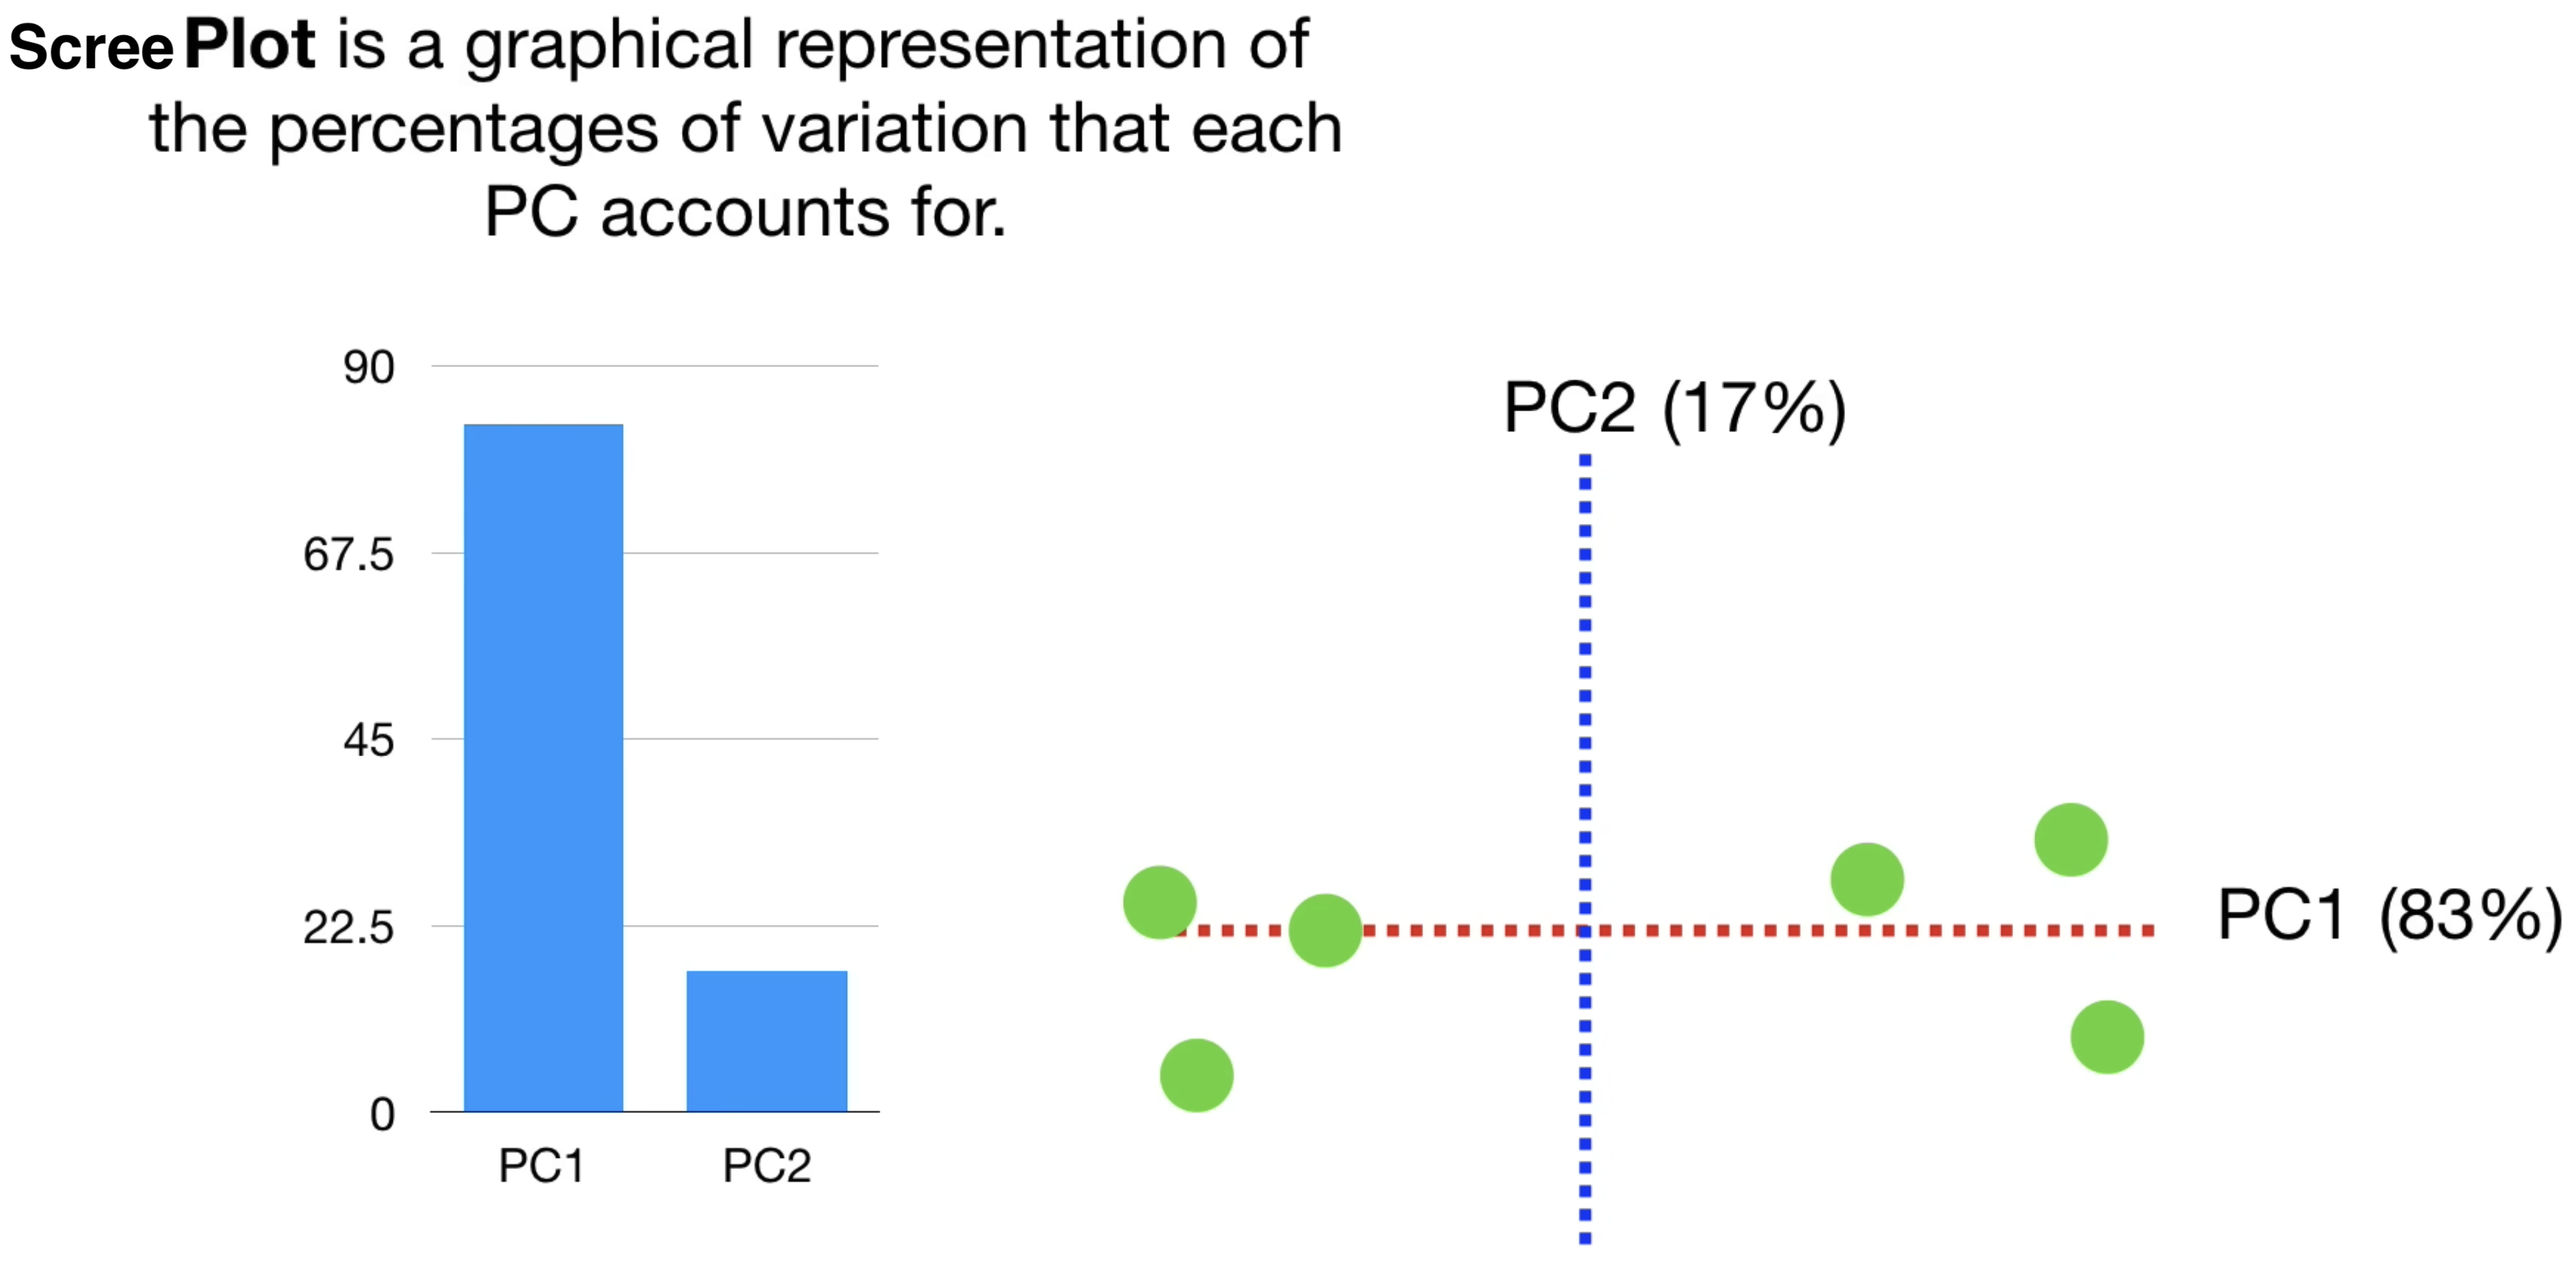
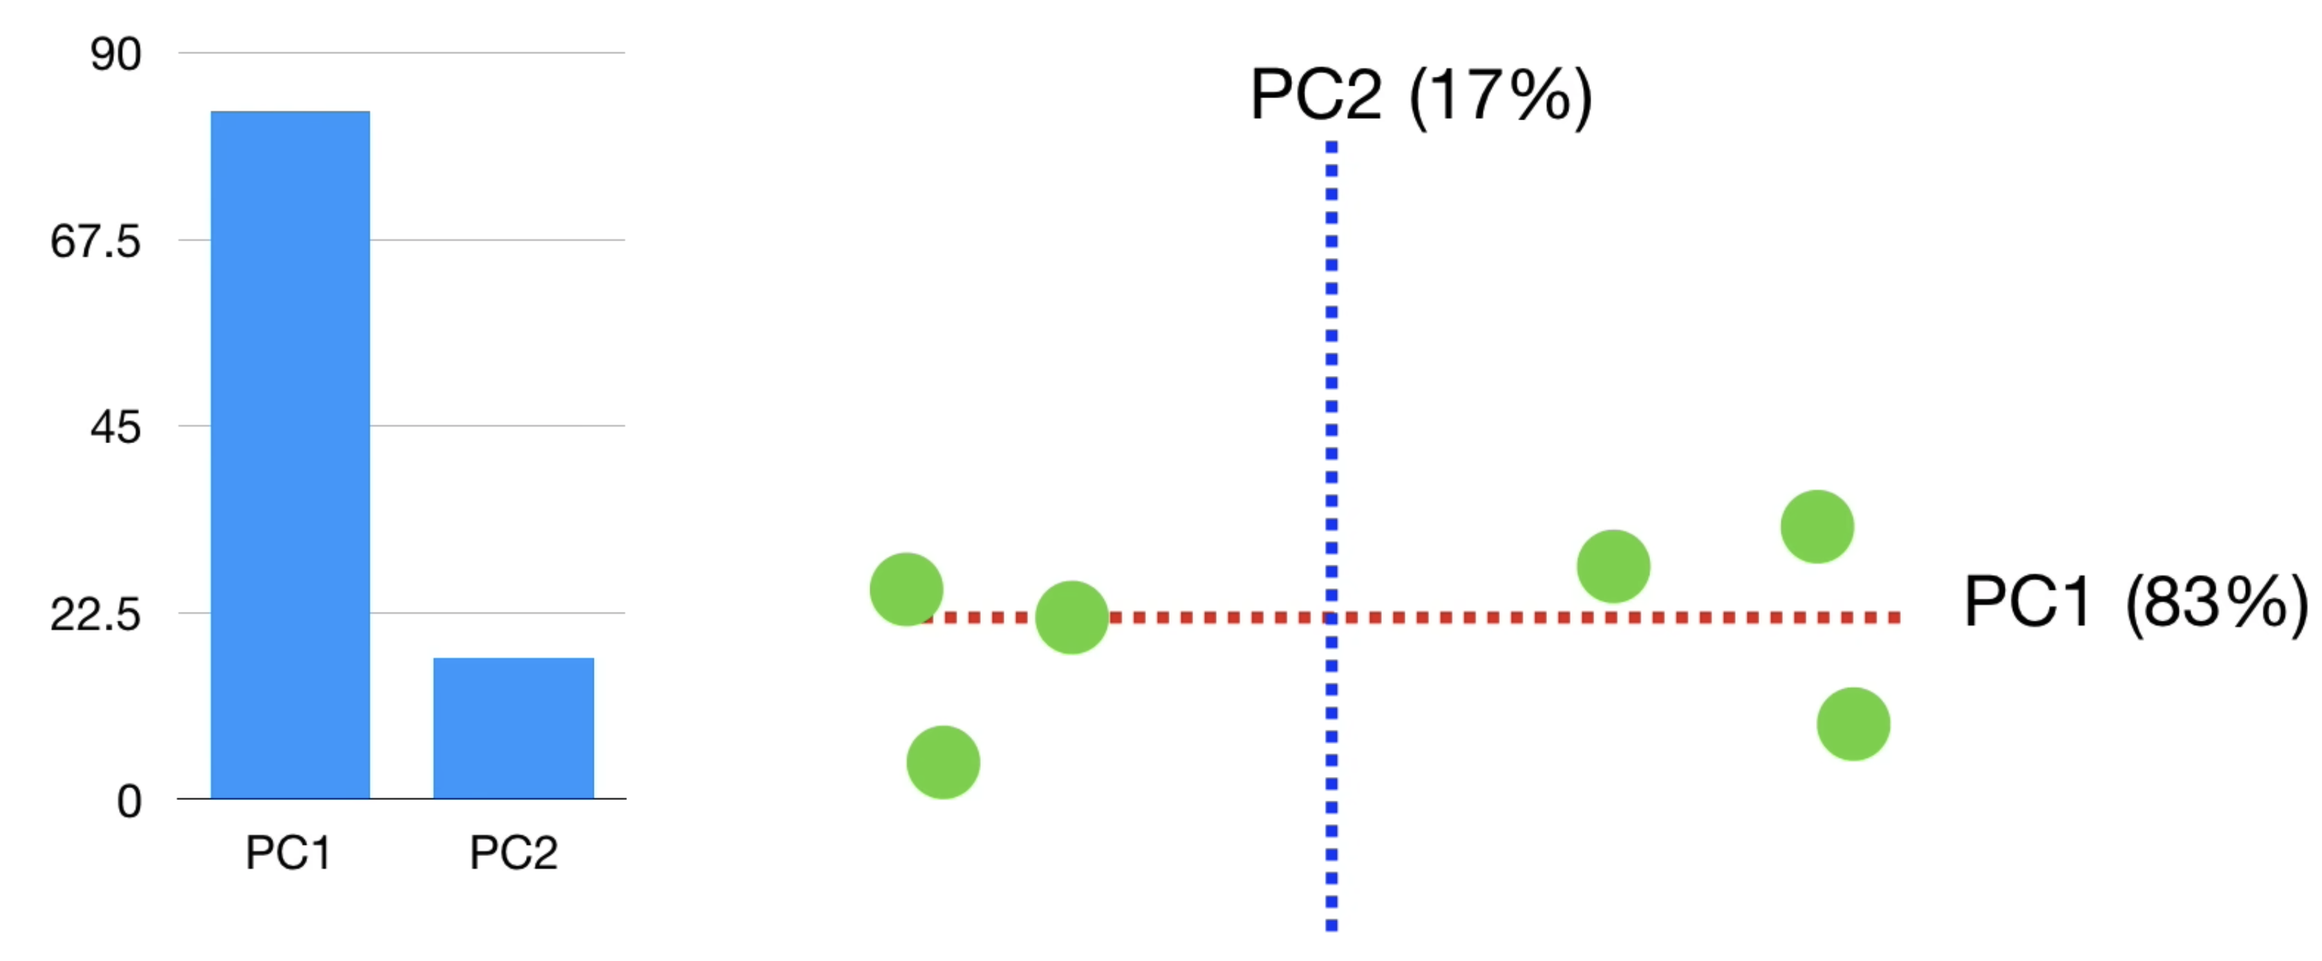
reorganisation des img

diff --git a/clustering/ACP_theorie.md b/clustering/ACP_theorie.md
@@ -7,10 +7,8 @@ soustrait la moyenne à chaque valeur, ce qui revient à recentrer les données 
 Recherche de la direction (droite ou vecteur) qui s’ajuste le mieux aux données pour y projeter les points.
 <img src="../img/machine_learning/acp/3_search_best_line.png" width="300"><br>
 Étant donné que **a** (distance de la projection à l'origine) est fixe, on peut :
-
-soit minimiser **b** (la distance entre les points et leur projection sur la droite),
-
-soit maximiser **c** (la variance projetée sur la droite)
+- soit **minimiser b** la distance entre les points et leur projection sur la droite<br>
+- soit **maximiser c** la distance entre l'origine et la projecion du point sur la droite (variance projetée sur la droite)
 <p align="left">
 <img src="../img/machine_learning/acp/5_minimize_b.png" width="300"style="vertical-align: top;">
 <img src="../img/machine_learning/acp/6_maximize_c.png" width="300"style="vertical-align: top;">
@@ -20,8 +18,8 @@ La ligne qui s'ajuste le mieux avec les données est celle qui maximise le total
 La direction optimale est celle qui maximise la variance projetée (ou, équivalemment, qui minimise la somme des carrés des distances entre les points et leur projection).<br>
 <img src="../img/machine_learning/acp/7_best_line_math.png" width="300"><br>
 La direction (ou droite) qui capte le plus de variance possible dans les données est la **première composante principale** (PC1)
-Sa pente permet de calculer... 
 <img src="../img/machine_learning/acp/8_best_line_slope.png" width="300"><br>
+Sa pente permet de calculer... 
 <p align="left">
 <img src="../img/machine_learning/acp/9_slope_ratio.png" width="300" style="vertical-align: top;">
 <img src="../img/machine_learning/acp/10_slope_math.png" width="300" style="vertical-align: top;">
@@ -36,15 +34,22 @@ Idem avec la pente de PC2
 <img src="../img/machine_learning/acp/15_PC2.png" width="300"style="vertical-align: top;">
 <img src="../img/machine_learning/acp/16_PC2_scores.png" width="300"style="vertical-align: top;">
 </p>
+On pivote l'ensemble pour avoir PC1 à l'horizontal<br>
+<img src="../img/machine_learning/acp/18_PC_graph.png" width="300"><br>
 
 <img src="../img/machine_learning/acp/17_PC1_horizontal.png" width="300"><br>
-<img src="../img/machine_learning/acp/18_PC_graph.png" width="300"><br>
 
 Pourcentage de variance expliquée par PC1 :
 Il s’agit du rapport entre la variance projetée sur PC1 et la variance totale des données.
 
 Cela permet de mesurer l’importance de cette composante dans la représentation des données.
-<img src="../img/machine_learning/acp/19_PC_graph_math.png" width="300"><br>
-Variation for PC1 = 15<br>
-Variation for PC1 = 3
-<img src="../img/machine_learning/acp/20_end.png" width="300"><br>
+
+Variation sur PC1 = 15<br>
+Variation sur PC2 = 3<br>
+Variation Totale  = 15 + 3 = 18
+Variation sur PC1   5 / 18 = 0,83 = 83 %
+Variation sur PC2   3 / 18 = 0,17 = 17 %
+
+<img src="../img/machine_learning/acp/19_PC_graph_math.png" width="800"><br>
+Le **scree plot** est une représentation graphique des % de variation contenus par chaque PC
+<img src="../img/machine_learning/acp/20_end.png" width="800"><br>
